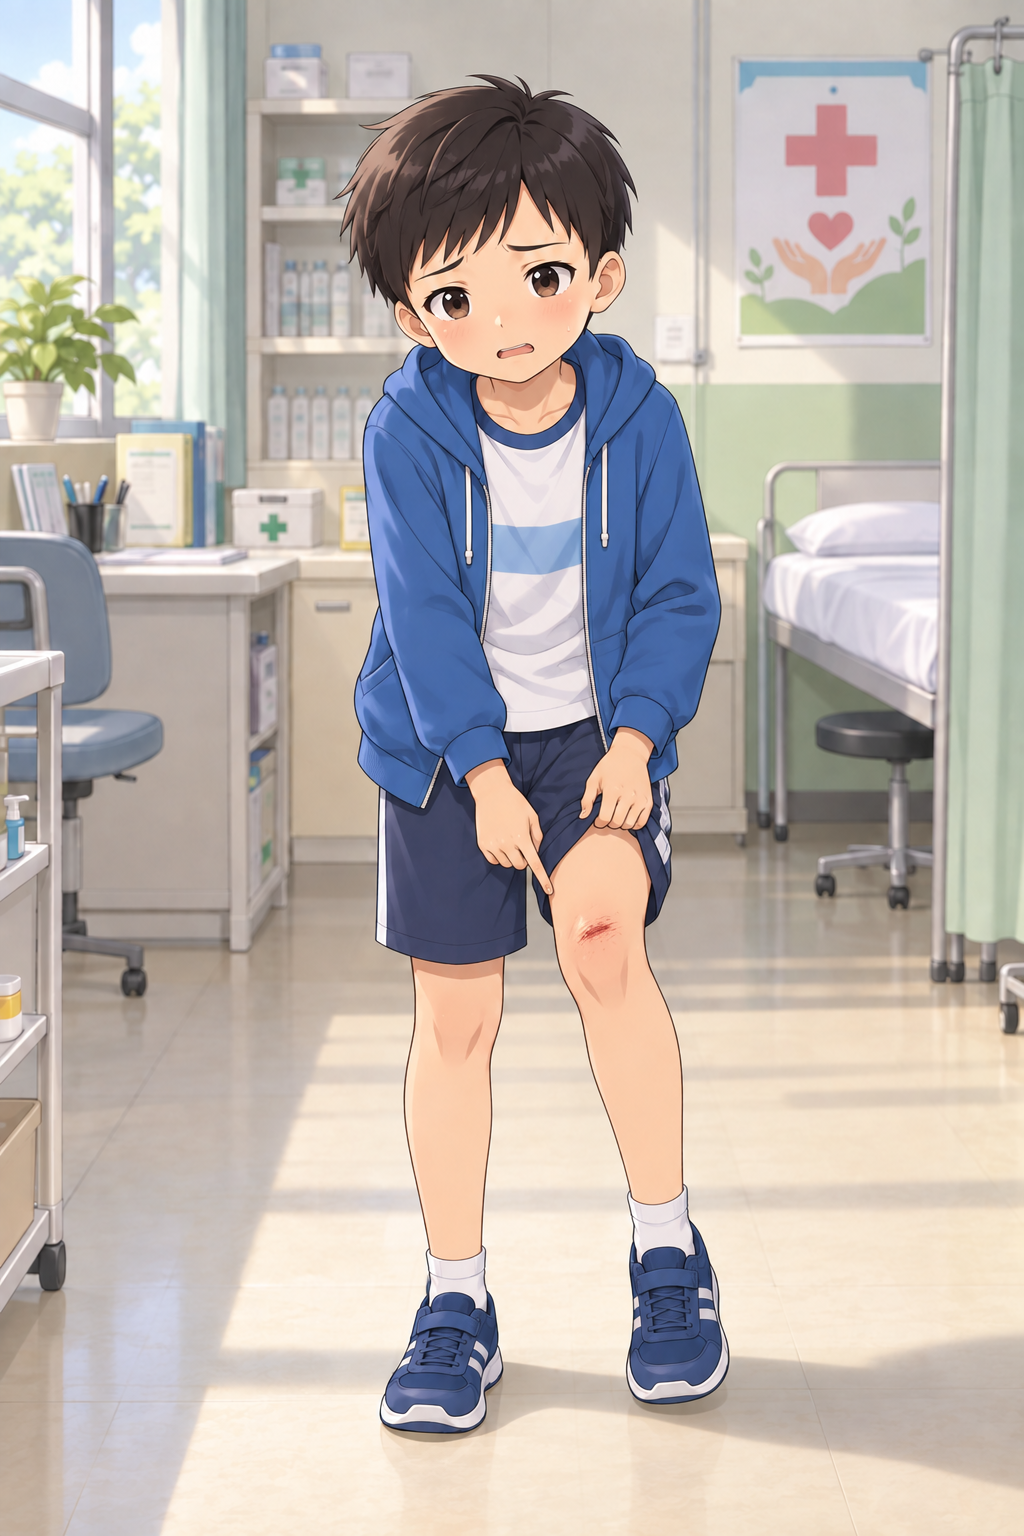
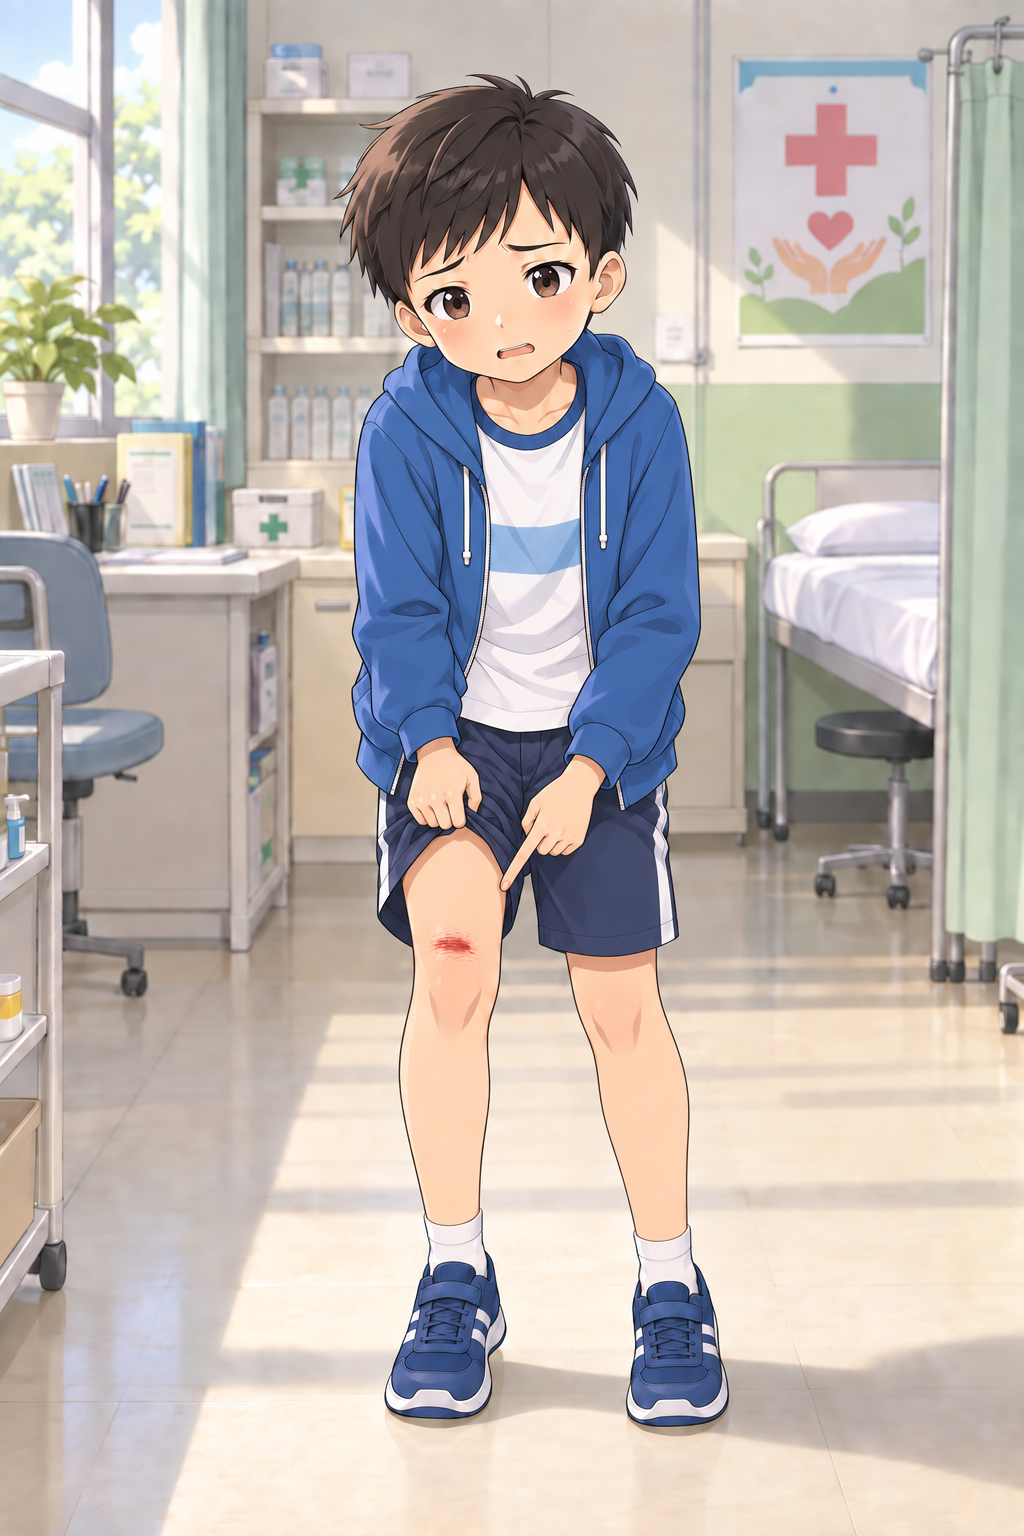
fix(weather_outfit): align mom NPC dialogue to stay at home seeing off protagonist to school

diff --git a/chain-quest-prototype/app.js b/chain-quest-prototype/app.js
@@ -905,8 +905,8 @@ const SCENARIOS_GRAPH = {
         altKeywords: ["下雨", "雨傘", "雨衣", "遮仔", "著雨衣", "帶雨傘", "拿遮仔", "穿雨衣"],
         npcRole: "媽媽",
         npcAvatar: "👩",
-        npcSuccessResponse: "「太棒了！穿好雨衣又帶了雨傘，下雨天就不怕淋成落湯雞了！」",
-        mandarinNpcSuccessResponse: "「太棒了！穿好雨衣又帶了雨傘，下雨天就不怕淋成落湯雞了！」",
+        npcSuccessResponse: "「太棒了！穿好雨衣又帶了雨傘，下雨天就不怕淋成落湯雞了！快去玄關穿鞋子，準備出門上學囉！」",
+        mandarinNpcSuccessResponse: "「太棒了！穿好雨衣又帶了雨傘，下雨天就不怕淋成落湯雞了！快去玄關穿鞋子，準備出門上學囉！」",
         npcRetryResponse: "「媽媽看著你問：『外面在下大雨呢，去學校要穿戴什麼防雨裝備才不會淋濕呀？』」",
         mandarinNpcRetryResponse: "「媽媽看著你問：『外面在下大雨呢，去學校要穿戴什麼防雨裝備才不會淋濕呀？』」",
         nextNodeId: "weather_done"
@@ -927,8 +927,8 @@ const SCENARIOS_GRAPH = {
         altKeywords: ["很熱", "短袖", "短褲", "薄衫", "帽子", "遮陽帽", "帽仔", "防曬"],
         npcRole: "媽媽",
         npcAvatar: "👩",
-        npcSuccessResponse: "「真聰明！穿清涼短袖短褲、戴上遮陽帽，這樣在學校就不怕曬傷中暑了！」",
-        mandarinNpcSuccessResponse: "「真聰明！穿清涼短袖短褲、戴上遮陽帽，這樣在學校就不怕曬傷中暑了！」",
+        npcSuccessResponse: "「真聰明！穿清涼短袖短褲、戴上遮陽帽，這樣在學校就不怕曬傷中暑了！快去玄關穿鞋子，準備出門上學囉！」",
+        mandarinNpcSuccessResponse: "「真聰明！穿清涼短袖短褲、戴上遮陽帽，這樣在學校就不怕曬傷中暑了！快去玄關穿鞋子，準備出門上學囉！」",
         npcRetryResponse: "「媽媽看著你問：『今天太陽那麼烈，出門要穿什麼清涼防曬的衣服呀？』」",
         mandarinNpcRetryResponse: "「媽媽看著你問：『今天太陽那麼烈，出門要穿什麼清涼防曬的衣服呀？』」",
         nextNodeId: "weather_done"
@@ -949,8 +949,8 @@ const SCENARIOS_GRAPH = {
         altKeywords: ["很冷", "厚大衫", "大衫", "大衣", "圍巾", "毛衣", "羽絨衣", "厚外套", "保暖", "穿暖", "著暖"],
         npcRole: "媽媽",
         npcAvatar: "👩",
-        npcSuccessResponse: "「真貼心！穿厚大衣又圍上毛圍巾，這樣在路上吹風就不會著涼感冒了！」",
-        mandarinNpcSuccessResponse: "「真貼心！穿厚大衣又圍上毛圍巾，這樣在路上吹風就不會著涼感冒了！」",
+        npcSuccessResponse: "「真貼心！穿厚大衣又圍上毛圍巾，這樣在路上吹風就不會著涼感冒了！快去玄關穿鞋子，準備出門上學囉！」",
+        mandarinNpcSuccessResponse: "「真貼心！穿厚大衣又圍上毛圍巾，這樣在路上吹風就不會著涼感冒了！快去玄關穿鞋子，準備出門上學囉！」",
         npcRetryResponse: "「媽媽摸摸你的手問：『今天寒流只有十度呢，快去拿厚大衣跟圍巾穿暖喔！』」",
         mandarinNpcRetryResponse: "「媽媽摸摸你的手問：『今天寒流只有十度呢，快去拿厚大衣跟圍巾穿暖喔！』」",
         nextNodeId: "weather_done"
@@ -961,8 +961,8 @@ const SCENARIOS_GRAPH = {
         nodeType: "集合點",
         locationTag: "玄關大門口",
         objectPosition: "50% 30%",
-        storyPrompt: "穿戴好合適的衣物裝備後，你站在玄關門口精神飽滿地向媽媽道別準備出發。你說：",
-        mandarinStoryPrompt: "穿戴好合適的衣物裝備後，你站在玄關門口精神飽滿地向媽媽道別準備出發。你說：",
+        storyPrompt: "穿戴好合適的衣物裝備後，你站在玄關門口精神飽滿地向媽媽道別準備出門上學。你說：",
+        mandarinStoryPrompt: "穿戴好合適的衣物裝備後，你站在玄關門口精神飽滿地向媽媽道別準備出門上學。你說：",
         targetHakka: "𠊎都準備好了，出門行囉，媽媽再見！",
         targetMandarin: "我都準備好了，出門走囉，媽媽再見！",
         keywords: ["準備好", "出門", "再見"],
@@ -970,10 +970,10 @@ const SCENARIOS_GRAPH = {
         altKeywords: ["準備", "出門", "準備好了", "再見", "出門行囉"],
         npcRole: "媽媽",
         npcAvatar: "👩",
-        npcSuccessResponse: "「太棒了！路上小心走，專心上課，祝你有美好的一天！」",
-        mandarinNpcSuccessResponse: "「太棒了！路上小心走，專心上課，祝你有美好的一天！」",
-        npcRetryResponse: "「媽媽在玄關笑著問：『東西跟衣服都穿戴整齊、準備好出發了嗎？』」",
-        mandarinNpcRetryResponse: "「媽媽在玄關笑著問：『東西跟衣服都穿戴整齊、準備好出發了嗎？』」",
+        npcSuccessResponse: "「太棒了！路上小心看車、專心上課，媽媽在家等你放學喔！」",
+        mandarinNpcSuccessResponse: "「太棒了！路上小心看車、專心上課，媽媽在家等你放學喔！」",
+        npcRetryResponse: "「媽媽在玄關笑著問：『衣服跟鞋子都穿好了嗎？出門上學前記得跟媽媽說聲再見喔！』」",
+        mandarinNpcRetryResponse: "「媽媽在玄關笑著問：『衣服跟鞋子都穿好了嗎？出門上學前記得跟媽媽說聲再見喔！』」",
         nextNodeId: null
       }
     }
@@ -2414,16 +2414,16 @@ class GraphStateManager {
       const branchId = this.selectedTargetBranchId || "weather_outfit_rain";
       const weatherPrompts = {
         weather_outfit_rain: {
-          storyPrompt: "穿戴好雨衣與雨傘等防雨裝備後，你站在玄關門口精神飽滿地向媽媽道別準備出發。你說：",
-          mandarinStoryPrompt: "穿戴好雨衣與雨傘等防雨裝備後，你站在玄關門口精神飽滿地向媽媽道別準備出發。你說："
+          storyPrompt: "穿戴好雨衣與雨傘等防雨裝備後，你站在玄關門口精神飽滿地向媽媽道別準備出門上學。你說：",
+          mandarinStoryPrompt: "穿戴好雨衣與雨傘等防雨裝備後，你站在玄關門口精神飽滿地向媽媽道別準備出門上學。你說："
         },
         weather_outfit_hot: {
-          storyPrompt: "穿戴好短袖短褲與遮陽帽等防曬裝備後，你站在玄關門口精神飽滿地向媽媽道別準備出發。你說：",
-          mandarinStoryPrompt: "穿戴好短袖短褲與遮陽帽等防曬裝備後，你站在玄關門口精神飽滿地向媽媽道別準備出發。你說："
+          storyPrompt: "穿戴好短袖短褲與遮陽帽等防曬裝備後，你站在玄關門口精神飽滿地向媽媽道別準備出門上學。你說：",
+          mandarinStoryPrompt: "穿戴好短袖短褲與遮陽帽等防曬裝備後，你站在玄關門口精神飽滿地向媽媽道別準備出門上學。你說："
         },
         weather_outfit_cold: {
-          storyPrompt: "穿戴好厚大衣與圍巾等保暖裝備後，你站在玄關門口精神飽滿地向媽媽道別準備出發。你說：",
-          mandarinStoryPrompt: "穿戴好厚大衣與圍巾等保暖裝備後，你站在玄關門口精神飽滿地向媽媽道別準備出發。你說："
+          storyPrompt: "穿戴好厚大衣與圍巾等保暖裝備後，你站在玄關門口精神飽滿地向媽媽道別準備出門上學。你說：",
+          mandarinStoryPrompt: "穿戴好厚大衣與圍巾等保暖裝備後，你站在玄關門口精神飽滿地向媽媽道別準備出門上學。你說："
         }
       };
       const info = weatherPrompts[branchId] || weatherPrompts.weather_outfit_rain;

diff --git a/dist/public/chain-quest-prototype/app.js b/dist/public/chain-quest-prototype/app.js
@@ -905,8 +905,8 @@ const SCENARIOS_GRAPH = {
         altKeywords: ["下雨", "雨傘", "雨衣", "遮仔", "著雨衣", "帶雨傘", "拿遮仔", "穿雨衣"],
         npcRole: "媽媽",
         npcAvatar: "👩",
-        npcSuccessResponse: "「太棒了！穿好雨衣又帶了雨傘，下雨天就不怕淋成落湯雞了！」",
-        mandarinNpcSuccessResponse: "「太棒了！穿好雨衣又帶了雨傘，下雨天就不怕淋成落湯雞了！」",
+        npcSuccessResponse: "「太棒了！穿好雨衣又帶了雨傘，下雨天就不怕淋成落湯雞了！快去玄關穿鞋子，準備出門上學囉！」",
+        mandarinNpcSuccessResponse: "「太棒了！穿好雨衣又帶了雨傘，下雨天就不怕淋成落湯雞了！快去玄關穿鞋子，準備出門上學囉！」",
         npcRetryResponse: "「媽媽看著你問：『外面在下大雨呢，去學校要穿戴什麼防雨裝備才不會淋濕呀？』」",
         mandarinNpcRetryResponse: "「媽媽看著你問：『外面在下大雨呢，去學校要穿戴什麼防雨裝備才不會淋濕呀？』」",
         nextNodeId: "weather_done"
@@ -927,8 +927,8 @@ const SCENARIOS_GRAPH = {
         altKeywords: ["很熱", "短袖", "短褲", "薄衫", "帽子", "遮陽帽", "帽仔", "防曬"],
         npcRole: "媽媽",
         npcAvatar: "👩",
-        npcSuccessResponse: "「真聰明！穿清涼短袖短褲、戴上遮陽帽，這樣在學校就不怕曬傷中暑了！」",
-        mandarinNpcSuccessResponse: "「真聰明！穿清涼短袖短褲、戴上遮陽帽，這樣在學校就不怕曬傷中暑了！」",
+        npcSuccessResponse: "「真聰明！穿清涼短袖短褲、戴上遮陽帽，這樣在學校就不怕曬傷中暑了！快去玄關穿鞋子，準備出門上學囉！」",
+        mandarinNpcSuccessResponse: "「真聰明！穿清涼短袖短褲、戴上遮陽帽，這樣在學校就不怕曬傷中暑了！快去玄關穿鞋子，準備出門上學囉！」",
         npcRetryResponse: "「媽媽看著你問：『今天太陽那麼烈，出門要穿什麼清涼防曬的衣服呀？』」",
         mandarinNpcRetryResponse: "「媽媽看著你問：『今天太陽那麼烈，出門要穿什麼清涼防曬的衣服呀？』」",
         nextNodeId: "weather_done"
@@ -949,8 +949,8 @@ const SCENARIOS_GRAPH = {
         altKeywords: ["很冷", "厚大衫", "大衫", "大衣", "圍巾", "毛衣", "羽絨衣", "厚外套", "保暖", "穿暖", "著暖"],
         npcRole: "媽媽",
         npcAvatar: "👩",
-        npcSuccessResponse: "「真貼心！穿厚大衣又圍上毛圍巾，這樣在路上吹風就不會著涼感冒了！」",
-        mandarinNpcSuccessResponse: "「真貼心！穿厚大衣又圍上毛圍巾，這樣在路上吹風就不會著涼感冒了！」",
+        npcSuccessResponse: "「真貼心！穿厚大衣又圍上毛圍巾，這樣在路上吹風就不會著涼感冒了！快去玄關穿鞋子，準備出門上學囉！」",
+        mandarinNpcSuccessResponse: "「真貼心！穿厚大衣又圍上毛圍巾，這樣在路上吹風就不會著涼感冒了！快去玄關穿鞋子，準備出門上學囉！」",
         npcRetryResponse: "「媽媽摸摸你的手問：『今天寒流只有十度呢，快去拿厚大衣跟圍巾穿暖喔！』」",
         mandarinNpcRetryResponse: "「媽媽摸摸你的手問：『今天寒流只有十度呢，快去拿厚大衣跟圍巾穿暖喔！』」",
         nextNodeId: "weather_done"
@@ -961,8 +961,8 @@ const SCENARIOS_GRAPH = {
         nodeType: "集合點",
         locationTag: "玄關大門口",
         objectPosition: "50% 30%",
-        storyPrompt: "穿戴好合適的衣物裝備後，你站在玄關門口精神飽滿地向媽媽道別準備出發。你說：",
-        mandarinStoryPrompt: "穿戴好合適的衣物裝備後，你站在玄關門口精神飽滿地向媽媽道別準備出發。你說：",
+        storyPrompt: "穿戴好合適的衣物裝備後，你站在玄關門口精神飽滿地向媽媽道別準備出門上學。你說：",
+        mandarinStoryPrompt: "穿戴好合適的衣物裝備後，你站在玄關門口精神飽滿地向媽媽道別準備出門上學。你說：",
         targetHakka: "𠊎都準備好了，出門行囉，媽媽再見！",
         targetMandarin: "我都準備好了，出門走囉，媽媽再見！",
         keywords: ["準備好", "出門", "再見"],
@@ -970,10 +970,10 @@ const SCENARIOS_GRAPH = {
         altKeywords: ["準備", "出門", "準備好了", "再見", "出門行囉"],
         npcRole: "媽媽",
         npcAvatar: "👩",
-        npcSuccessResponse: "「太棒了！路上小心走，專心上課，祝你有美好的一天！」",
-        mandarinNpcSuccessResponse: "「太棒了！路上小心走，專心上課，祝你有美好的一天！」",
-        npcRetryResponse: "「媽媽在玄關笑著問：『東西跟衣服都穿戴整齊、準備好出發了嗎？』」",
-        mandarinNpcRetryResponse: "「媽媽在玄關笑著問：『東西跟衣服都穿戴整齊、準備好出發了嗎？』」",
+        npcSuccessResponse: "「太棒了！路上小心看車、專心上課，媽媽在家等你放學喔！」",
+        mandarinNpcSuccessResponse: "「太棒了！路上小心看車、專心上課，媽媽在家等你放學喔！」",
+        npcRetryResponse: "「媽媽在玄關笑著問：『衣服跟鞋子都穿好了嗎？出門上學前記得跟媽媽說聲再見喔！』」",
+        mandarinNpcRetryResponse: "「媽媽在玄關笑著問：『衣服跟鞋子都穿好了嗎？出門上學前記得跟媽媽說聲再見喔！』」",
         nextNodeId: null
       }
     }
@@ -2414,16 +2414,16 @@ class GraphStateManager {
       const branchId = this.selectedTargetBranchId || "weather_outfit_rain";
       const weatherPrompts = {
         weather_outfit_rain: {
-          storyPrompt: "穿戴好雨衣與雨傘等防雨裝備後，你站在玄關門口精神飽滿地向媽媽道別準備出發。你說：",
-          mandarinStoryPrompt: "穿戴好雨衣與雨傘等防雨裝備後，你站在玄關門口精神飽滿地向媽媽道別準備出發。你說："
+          storyPrompt: "穿戴好雨衣與雨傘等防雨裝備後，你站在玄關門口精神飽滿地向媽媽道別準備出門上學。你說：",
+          mandarinStoryPrompt: "穿戴好雨衣與雨傘等防雨裝備後，你站在玄關門口精神飽滿地向媽媽道別準備出門上學。你說："
         },
         weather_outfit_hot: {
-          storyPrompt: "穿戴好短袖短褲與遮陽帽等防曬裝備後，你站在玄關門口精神飽滿地向媽媽道別準備出發。你說：",
-          mandarinStoryPrompt: "穿戴好短袖短褲與遮陽帽等防曬裝備後，你站在玄關門口精神飽滿地向媽媽道別準備出發。你說："
+          storyPrompt: "穿戴好短袖短褲與遮陽帽等防曬裝備後，你站在玄關門口精神飽滿地向媽媽道別準備出門上學。你說：",
+          mandarinStoryPrompt: "穿戴好短袖短褲與遮陽帽等防曬裝備後，你站在玄關門口精神飽滿地向媽媽道別準備出門上學。你說："
         },
         weather_outfit_cold: {
-          storyPrompt: "穿戴好厚大衣與圍巾等保暖裝備後，你站在玄關門口精神飽滿地向媽媽道別準備出發。你說：",
-          mandarinStoryPrompt: "穿戴好厚大衣與圍巾等保暖裝備後，你站在玄關門口精神飽滿地向媽媽道別準備出發。你說："
+          storyPrompt: "穿戴好厚大衣與圍巾等保暖裝備後，你站在玄關門口精神飽滿地向媽媽道別準備出門上學。你說：",
+          mandarinStoryPrompt: "穿戴好厚大衣與圍巾等保暖裝備後，你站在玄關門口精神飽滿地向媽媽道別準備出門上學。你說："
         }
       };
       const info = weatherPrompts[branchId] || weatherPrompts.weather_outfit_rain;

diff --git a/api/judge.js b/api/judge.js
@@ -123,11 +123,15 @@ const CLAUDE_GROUNDING_RULES = `
       * 【嚴禁】：護理師絕對【嚴禁】要求學生把第 1 關的「護理師阿姨我身體不舒服」整句全部重新再唸一次！
     - 本關評估判定（isMatch）只聚焦於「當前關卡的核心目標要素」，凡是先前關卡已達成的前置要素均自動視為已知且滿足。
 
-11. 🌦【今日天氣與出門穿搭關卡 — 語意等價與生活化自然對話】：
+11. 🌦【今日天氣與出門穿搭關卡 — 媽媽在家目送小孩上學人設與生活化對話】：
+    - 🏡【家庭情境人設】：媽媽是在家中廚房與客廳，目送孩子自己穿好衣服防護、換好鞋子出門去上學（孩子說『媽媽再見，我出門囉』）。媽媽【留在家裡，並不是跟著孩子一起出門】！
+    - 🚫【絕對嚴禁】：NPC 媽媽【絕對嚴禁】說出『我們要出門了』、『我們準備出發囉』等把自己算進出門隊伍的話！媽媽必須站在目送孩子上學的角色（例：『衣服穿好了真整齊，快到玄關換鞋子，準備出門上學囉！』）。
     - 【步驟 1 (觀察回報天氣)】：
       * 寒冷/寒流分支：學生只要表達「外面很冷」、「風很大」、「風吹得很冷」、「外面的風看起來好冷」、「寒流來了」、「外面好冷風好大」等合理天氣描述，均屬完全正確，【一律必須判定 isMatch: true】！嚴禁因字詞順序或同義表達不同而誤判為 false！
       * 下雨分支：學生提及「下雨」、「下大雨」、「地面濕漉漉」、「外背溼漉漉」等，均判定 isMatch: true！
       * 晴天分支：學生提及「大太陽」、「好熱」、「出日頭」、「晴天」等，均判定 isMatch: true！
+    - 【步驟 2 (挑選穿搭)】：挑選完合適的防雨/防曬/保暖穿搭後，媽媽讚許並提醒孩子去玄關換鞋出門上學（例：『真貼心！穿得這麼暖和，快去玄關穿鞋子，準備出門上學囉！』）。
+    - 【步驟 3 (玄關道別出發)】：孩子向媽媽說再見出發，媽媽在玄關目送叮嚀（例：『太棒了！路上走路小心看車，專心上課，媽媽在家等你放學喔！』）。
     - 【精簡親切回覆】：NPC 媽媽的回應應保持在 1~2 句自然的日常口語，簡潔親切，嚴禁反覆碎碎念或囉嗦重複提問。
 
 12. 💬【夾帶情緒、抱怨、告狀、開玩笑或題外話時的雙向回應鐵律（Dual-Response Protocol）】：
